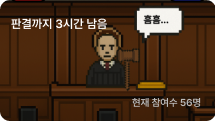
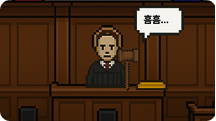
feat/community_UI_dummy_실소재판소

diff --git a/demo250701/lib/screens/community/community_mvp/community_main.dart b/demo250701/lib/screens/community/community_mvp/community_main.dart
@@ -238,7 +238,7 @@ class _CommunityMainScreenState extends State<CommunityMainScreen> {
       child: Row(
         children: [
           _buildTrialCard(
-            imageUrl: "https://placehold.co/216x121/000000/FFFFFF?text=Sample1",
+            imageUrl: "assets/images/community/judge_1.png",
             title: '여친이랑 헤어짐; 드루와',
             timeLeft: '판결까지 3시간 남음',
             participants: '현재 참여수 56명',
@@ -247,7 +247,7 @@ class _CommunityMainScreenState extends State<CommunityMainScreen> {
           ),
           const SizedBox(width: 8),
           _buildTrialCard(
-            imageUrl: "https://placehold.co/216x121/5F37CF/FFFFFF?text=Sample2",
+            imageUrl: "assets/images/community/judge_2.png",
             title: '상사한테 꾸중을 들었...',
             timeLeft: '판결까지 9시간 남음',
             participants: '현재 참여수 56명',
@@ -256,7 +256,7 @@ class _CommunityMainScreenState extends State<CommunityMainScreen> {
           ),
           const SizedBox(width: 8),
           _buildTrialCard(
-            imageUrl: "https://placehold.co/216x121/C7C7C7/FFFFFF?text=Sample3",
+            imageUrl: "assets/images/community/judge_1.png",
             title: '또 다른 재판 이야기',
             timeLeft: '판결까지 1일 남음',
             participants: '현재 참여수 102명',
@@ -288,7 +288,7 @@ class _CommunityMainScreenState extends State<CommunityMainScreen> {
             decoration: BoxDecoration(
               borderRadius: BorderRadius.circular(10),
               image: DecorationImage(
-                image: NetworkImage(imageUrl),
+                image: AssetImage(imageUrl),
                 fit: BoxFit.cover,
               ),
             ),
